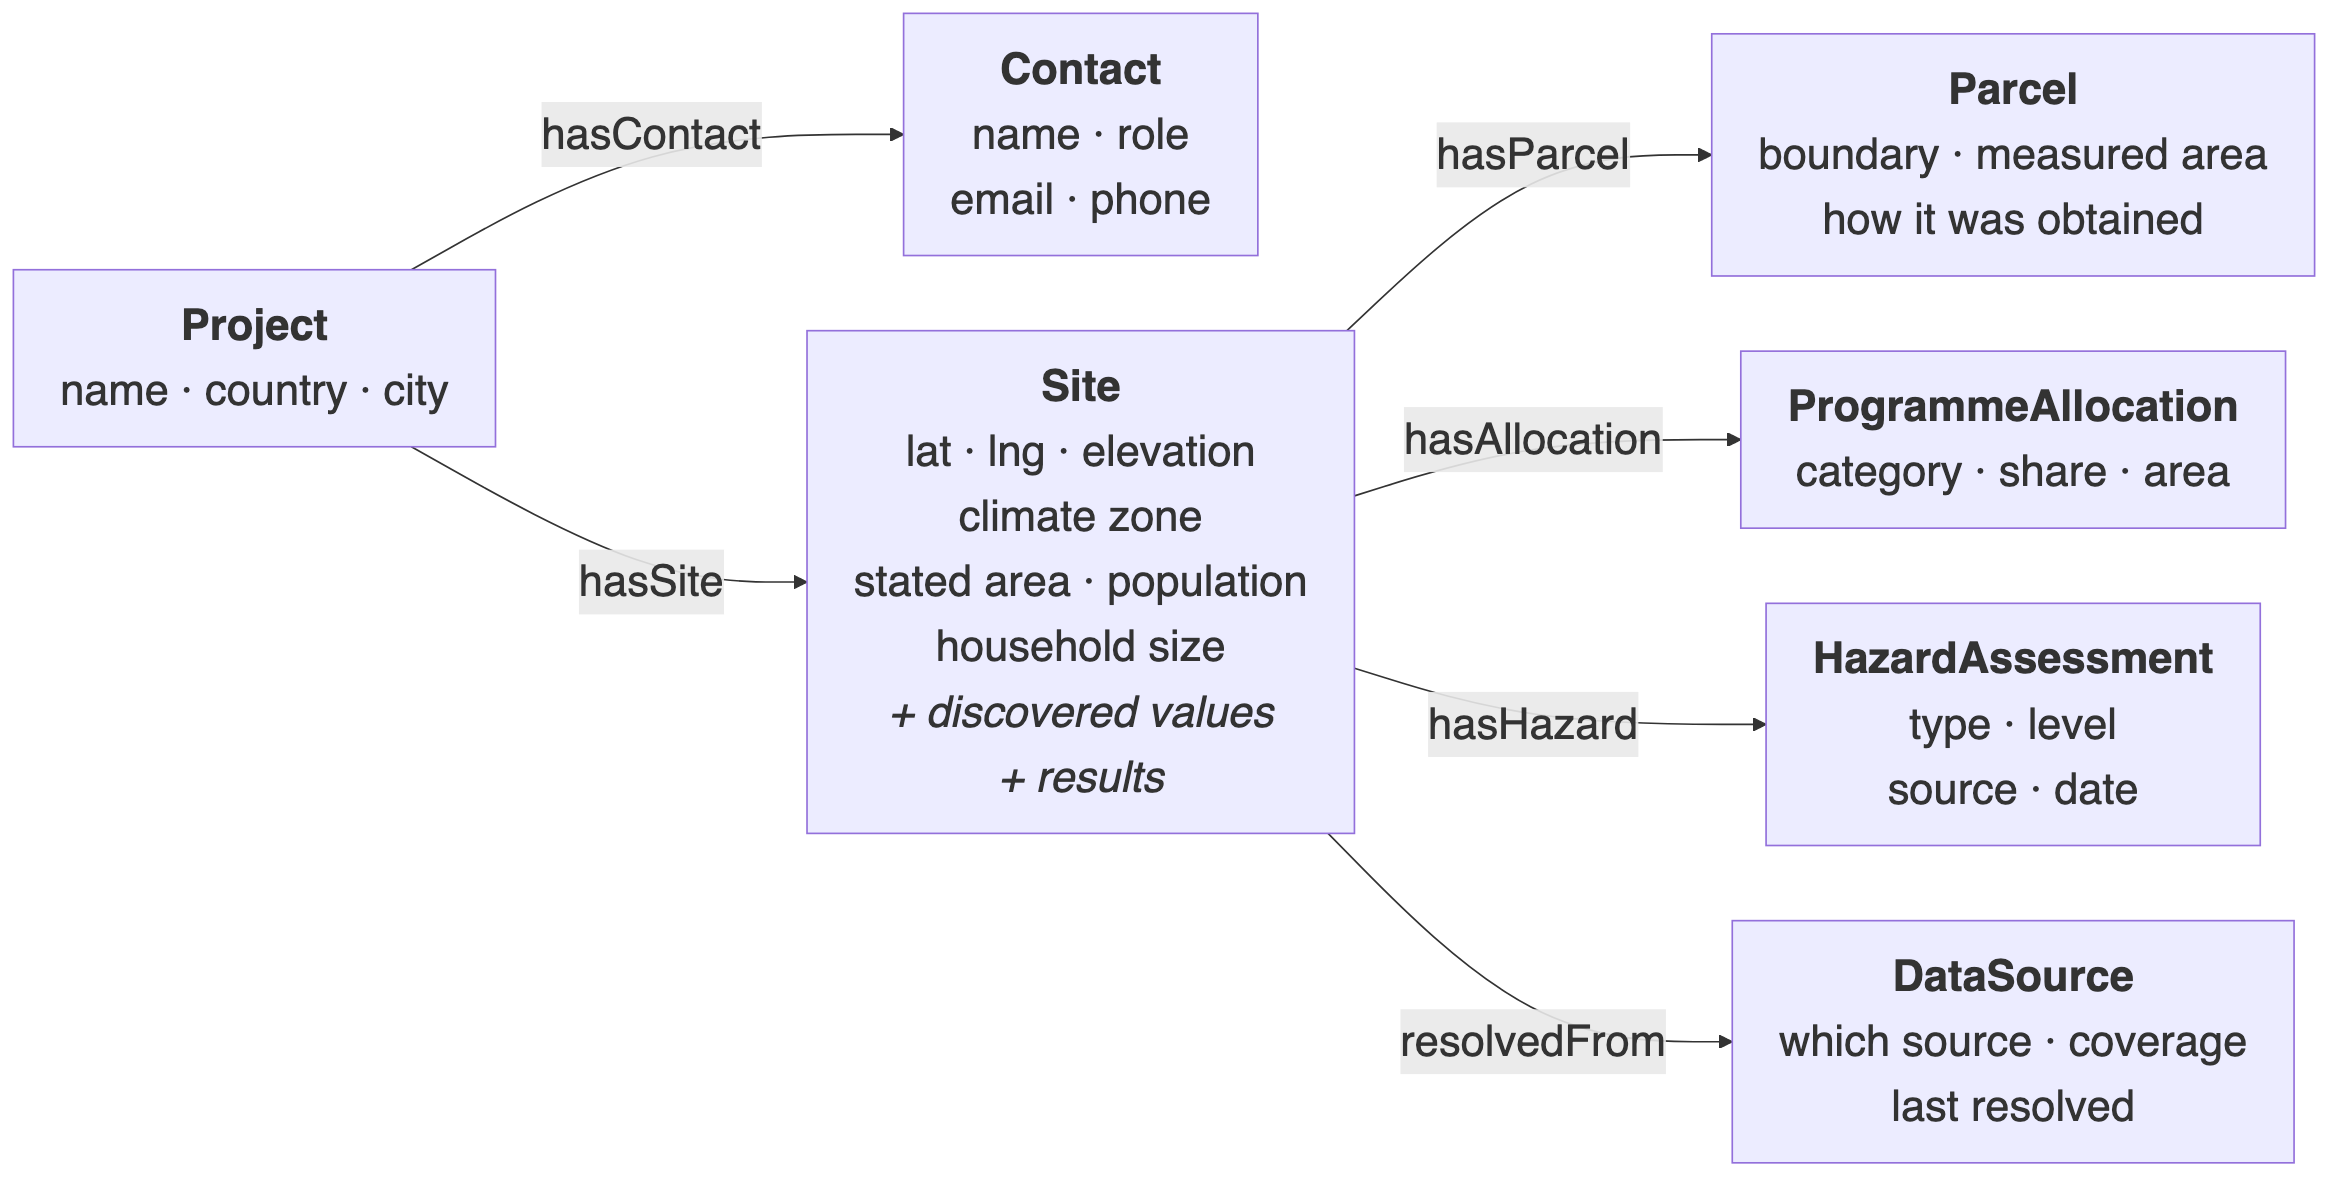
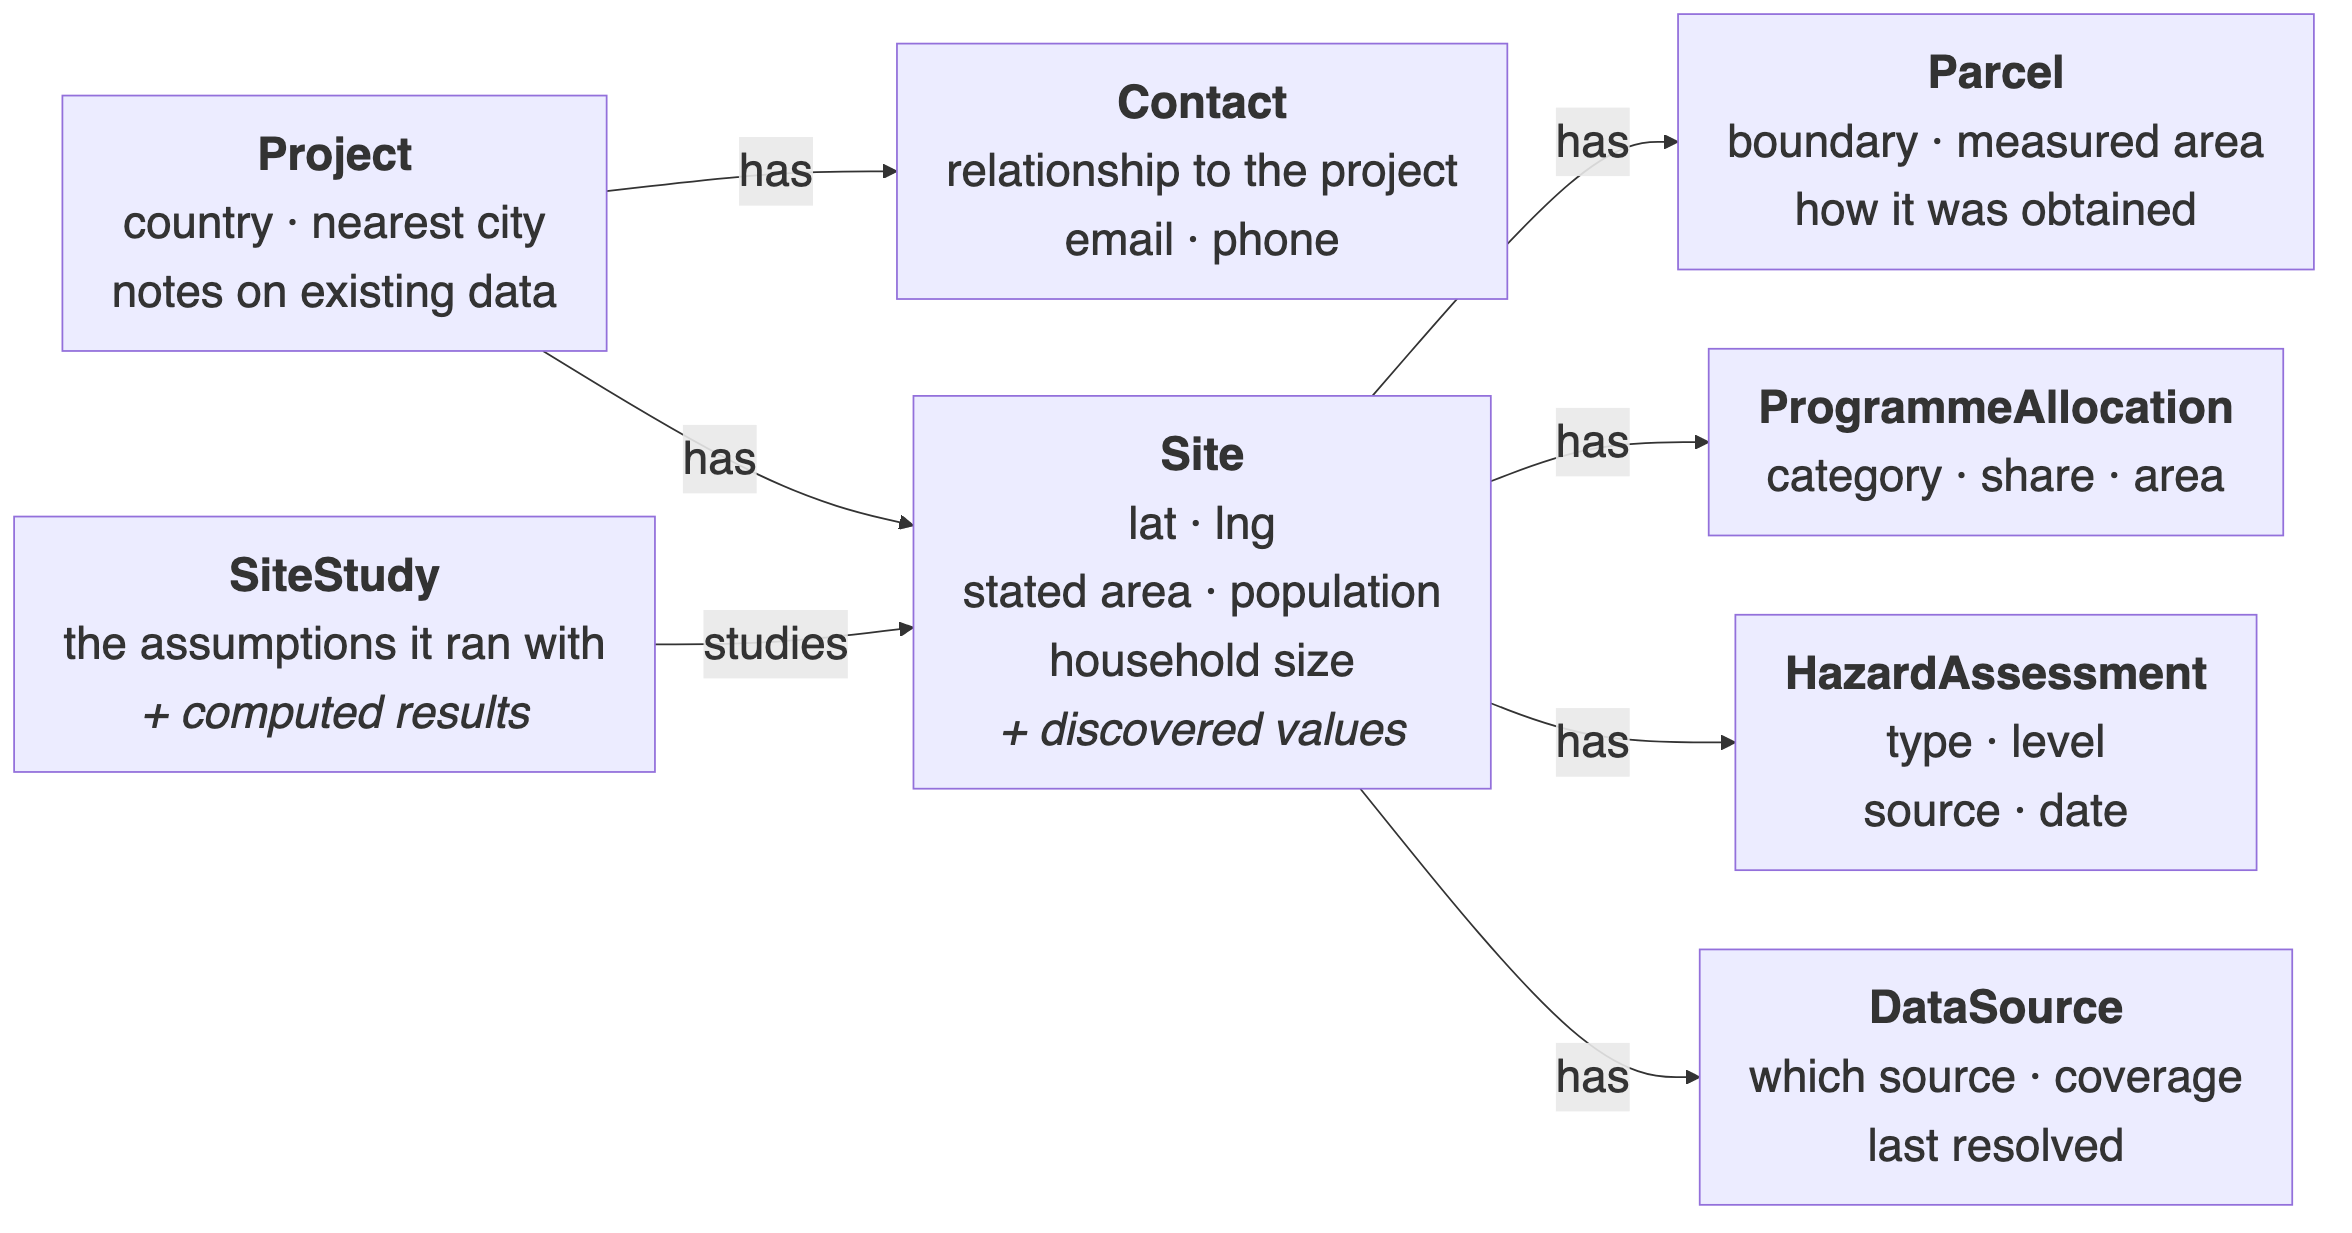
fix(#6437): the archetype diagram draws the predicates the model holds
Every edge read a predicate of its own — hasContact, hasSite, hasParcel,
hasAllocation, hasHazard, resolvedFrom. The model uses one predicate, has,
for all six, and studies for the study that reads a site. Nothing mints or
walks the six, so a reader building against the picture wrote edges every
reader then failed to find.

The same picture put computed results on the Site. They belong to the study,
which the table under the diagram already showed and the diagram did not.

A test now reads the diagram source and fails on any edge labelled with a
predicate the intake service does not compose.

The regeneration commands the document printed did not reproduce the images
in the repository: they leave out the physical size that stops a word
processor placing a diagram as a thumbnail, and the renderer does not write
one. That step now lives in a script the document points at.

diff --git a/Tests/vos.Service.Intake.Tests/ArchetypeDiagramTests.cs b/Tests/vos.Service.Intake.Tests/ArchetypeDiagramTests.cs
@@ -1,0 +1,36 @@
+using System.Text.RegularExpressions;
+using FluentAssertions;
+using vos.Service.Intake.Services;
+using Xunit;
+
+namespace vos.Service.Intake.Tests;
+
+/// <summary>
+/// The archetype diagram is what a reader builds a submission against, and a predicate drawn there that
+/// nothing mints fails quietly: the fragment is accepted, the Things appear, and every reader that walks
+/// the real predicate finds a site with nothing hanging off it.
+/// </summary>
+public class ArchetypeDiagramTests
+{
+    private static readonly Regex EdgeLabel = new(@"-->\|(?<predicate>[^|]+)\|", RegexOptions.Compiled);
+
+    [Fact]
+    public void Every_edge_in_the_archetype_diagram_names_a_predicate_the_composer_writes()
+    {
+        var diagram = File.ReadAllText(
+            Path.Combine(AppContext.BaseDirectory, "land-intake-archetypes.mmd"));
+        var composed = new[]
+        {
+            SubmissionFragmentComposer.HasPredicateName,
+            SubmissionFragmentComposer.StudiesPredicateName,
+        };
+
+        var drawn = EdgeLabel.Matches(diagram)
+            .Select(match => match.Groups["predicate"].Value)
+            .ToList();
+
+        drawn.Should().NotBeEmpty("a diagram whose edges cannot be read proves nothing about the ones it draws");
+        drawn.Distinct().Where(predicate => !composed.Contains(predicate)).Should().BeEmpty(
+            $"the diagram may only draw predicates the model holds — {string.Join(", ", composed)}");
+    }
+}

diff --git a/docs/LAND_INTAKE.md b/docs/LAND_INTAKE.md
@@ -380,7 +380,15 @@ That is the whole contract. Any language can implement it.
 
 ![The land-intake archetypes and the relationships between them](assets/land-intake-archetypes.png)
 
-Two design decisions worth stating:
+Three design decisions worth stating:
+
+**One predicate joins a site to its parts.** Every edge in the picture reads `has` — the site to its
+parcel, its allocations, its hazard assessments, its data sources. A predicate per pair —
+`hasParcel`, `hasHazard` — would mean a reader had to know the name for each kind before it could
+walk anything, and adding a kind would mean teaching every reader another name. With one predicate a
+reader walks a site's parts without knowing what they are, and reads what each one is from its `is`
+edge. The study is the exception, and joins the site through `studies`: it is not a part of the site,
+it is a reading of it.
 
 **The parcel is its own Thing, not a property on the site.** A site can be re-surveyed. Keeping the
 boundary separate means a new survey is a new Thing with its own history, and the geometry can carry
@@ -756,17 +764,18 @@ Three things keep the PNGs legible on a page, and all three matter:
 
 | | Why |
 |---|---|
-| **Intrinsic size larger than any page** | Each PNG declares a physical width of half a metre or more, so a word processor scales it down to the text width rather than guessing. Declaring the *exact* target width does not work — importers apply their own scaling factor on top and the diagram lands at a fraction of the width. |
+| **Intrinsic size larger than any page** | Each PNG declares a physical width of half a metre or more, so a word processor scales it down to the text width rather than guessing. Declaring the *exact* target width does not work — importers apply their own scaling factor on top and the diagram lands at a fraction of the width. The renderer writes no physical size at all, so `render-diagrams.sh` stamps one on after rendering. |
 | **Type set well above the default** | Render settings live in `mermaid-config.json` so every diagram matches. |
 | **Shape close to the page box** | Legibility depends on the diagram's proportions, not just its type size: a wide diagram scaled to fit the text width shrinks its own text with it. Keep each diagram inside roughly **170 × 230 mm** once fitted to the text width. |
 
 To regenerate after editing a source:
 
 ```bash
-cd docs/assets
-npx -y @mermaid-js/mermaid-cli@11 -i land-intake-<name>.mmd -o land-intake-<name>.png -c mermaid-config.json -b white -s 3
-npx -y @mermaid-js/mermaid-cli@11 -i land-intake-<name>.mmd -o land-intake-<name>.svg -c mermaid-config.json -b white
+docs/assets/render-diagrams.sh land-intake-<name>.mmd
 ```
+
+Name no source and it re-renders every one. The script writes both the PNG and the SVG, and stamps
+the PNG with the physical size described above.
 
 ### Reading this as a document
 
